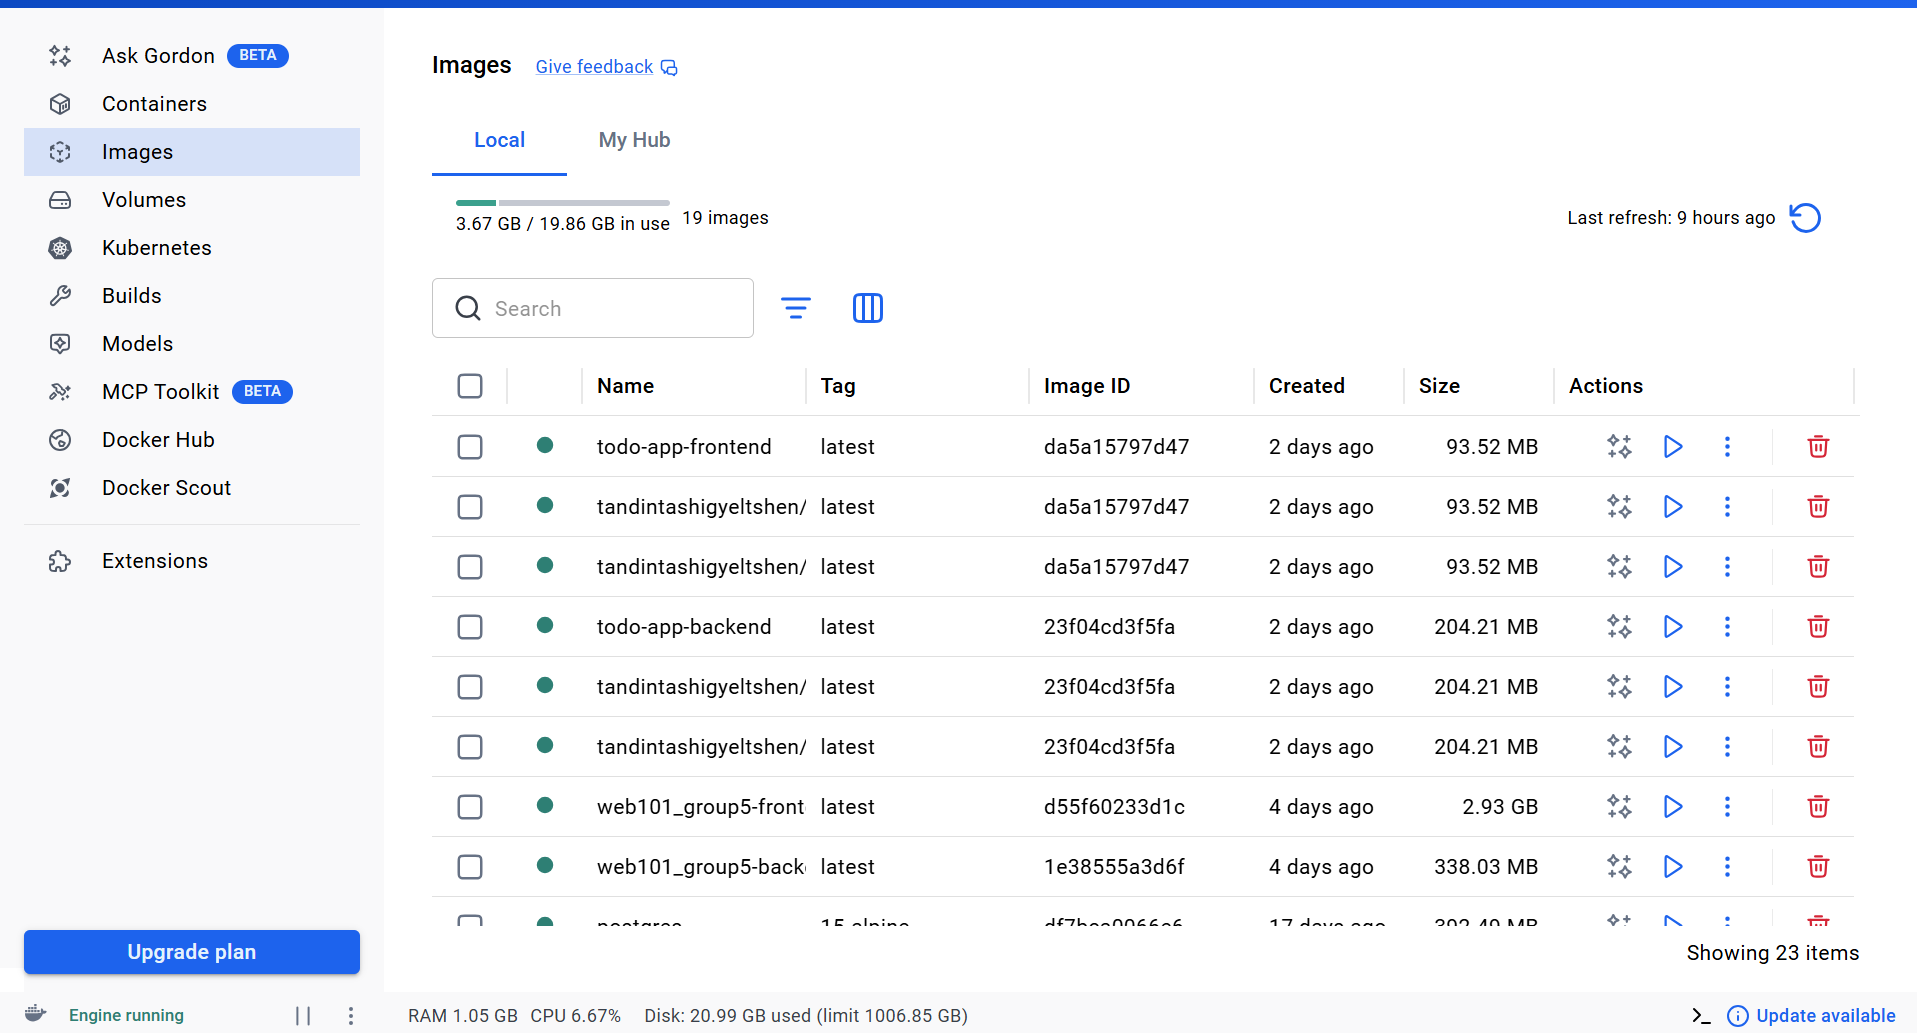
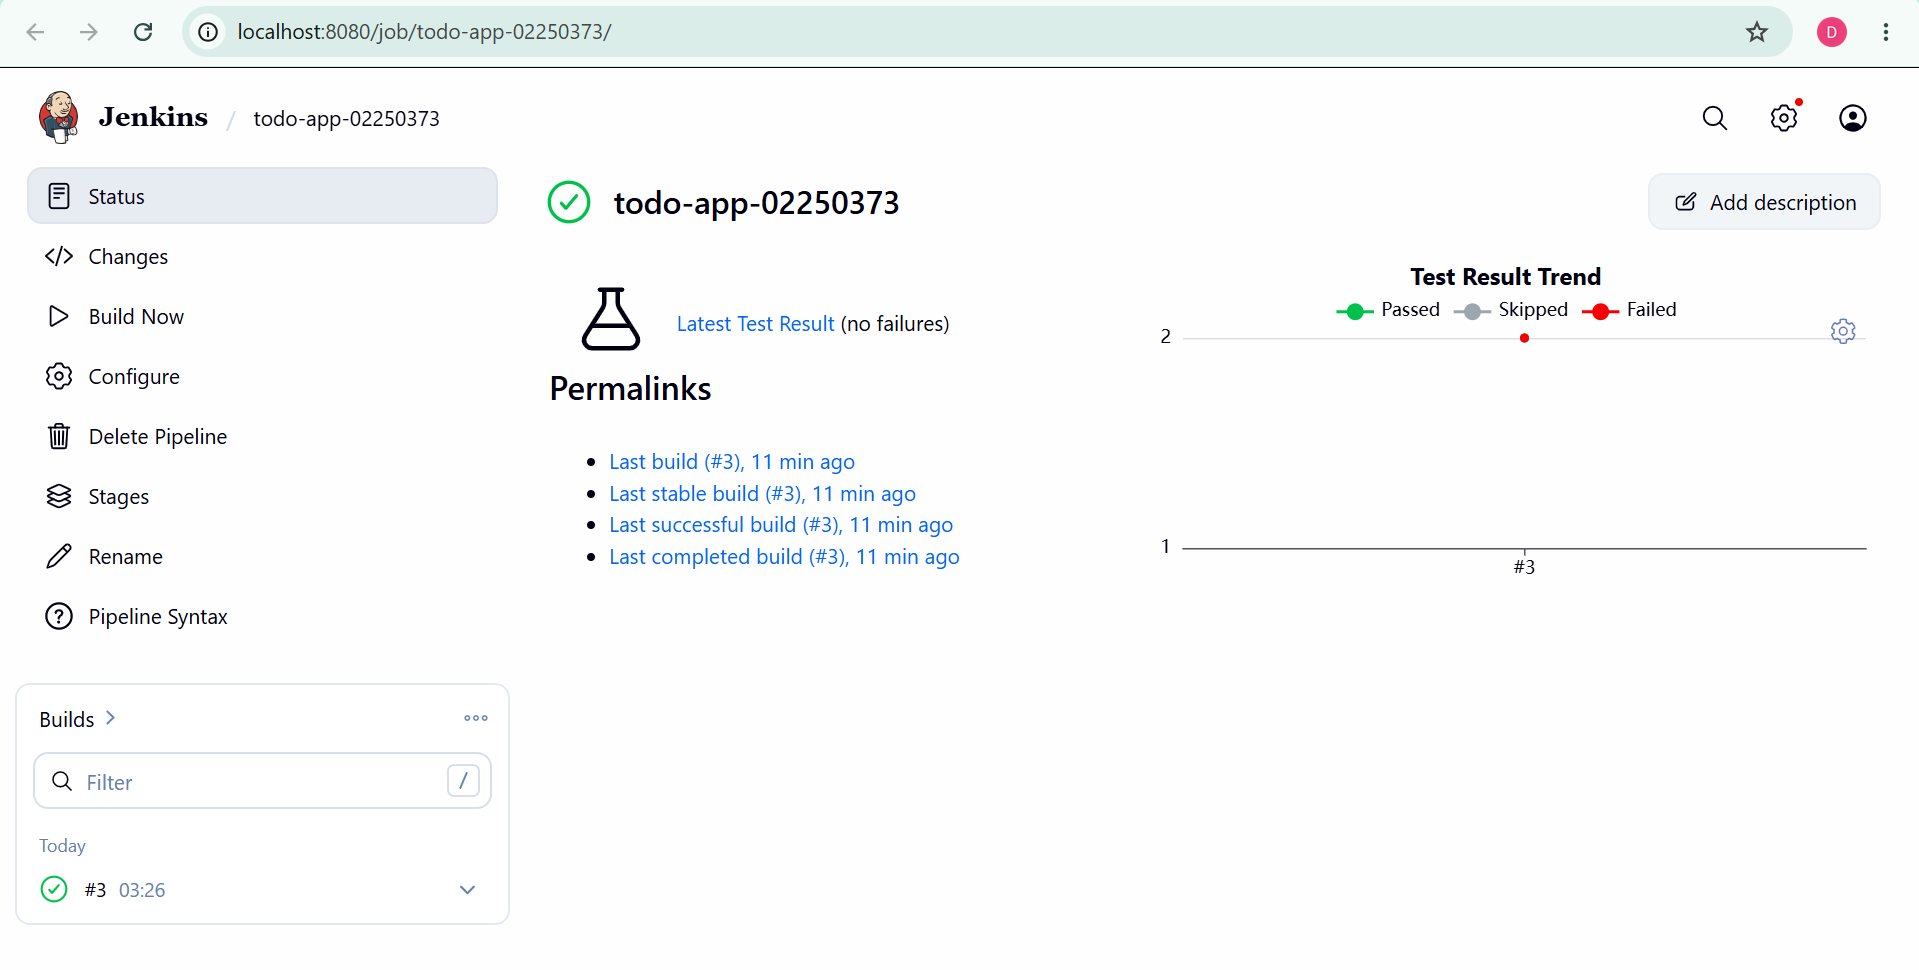
Add README for Assignment 2

diff --git a/README.md b/README.md
@@ -1,239 +1,99 @@
-# TodoApp — DSO101 Assignment 1
+# TodoApp — DSO101 Assignment 2
 
-A full-stack Todo application built with **React**, **Node/Express**, and **PostgreSQL**, deployed via Docker on Render.com.
-
----
-
-## Project Structure
-
-```
-todo-app/
-├── frontend/
-│   ├── src/
-│   │   ├── App.js          # Main React component (CRUD UI)
-│   │   ├── App.css         # Styles
-│   │   └── index.js        # Entry point
-│   ├── public/
-│   │   └── index.html
-│   ├── Dockerfile          # Multi-stage: build → nginx
-│   ├── nginx.conf          # SPA routing config
-│   └── .env.example
-├── backend/
-│   ├── server.js           # Express API (CRUD endpoints)
-│   ├── Dockerfile
-│   └── .env.example
-├── render.yaml             # Render Blueprint (Part B)
-├── docker-compose.yml      # Local dev environment
-└── .gitignore
-```
+CI/CD pipeline using Jenkins to automate build, test, and deployment of the todo app from Assignment 1.
 
 ---
 
-## Step 0 — Run Locally
+## GitHub Repository
+https://github.com/tandintashigyeltshen15/tandintashigyeltshen_02250373_DSO101_A2
 
-### Prerequisites
-- Node.js 18+
-- Docker & Docker Compose
+## Docker Hub Image
+https://hub.docker.com/r/tandintashigyeltshen/todo-backend-02250373
 
-### Option A: Docker Compose (recommended)
+---
 
-```bash
-# Clone the repo
-git clone https://github.com/tandintashigyeltshen15/tandintashigyeltshen_02250373_DSO101_A1.git
-cd studentname_studentnumber_DSO101_A1
+## Tools & Technologies
+- Jenkins (localhost:8080)
+- GitHub
+- Node.js & npm
+- Jest + jest-junit (unit testing)
+- Docker
 
-# Copy env files (edit with your values if needed)
-cp backend/.env.example backend/.env
-cp frontend/.env.example frontend/.env
+---
 
-# Start all services (db, backend, frontend)
-docker compose up --build
+## Pipeline Stages
+1. **Checkout** — Clone repo from GitHub
+2. **Install** — Run `npm install` in backend
+3. **Test** — Run Jest unit tests, publish JUnit results
+4. **Build Docker Image** — Build backend Docker image
+5. **Push to Docker Hub** — Push image to Docker Hub registry
+
+---
+
+## How to Configure the Pipeline
+
+### 1. Install Jenkins
+- Download from jenkins.io
+- Run on localhost:8080
+- Install plugins: NodeJS, Pipeline, GitHub Integration, Docker Pipeline, Credentials
+
+### 2. Configure Node.js
+- Manage Jenkins → Tools → NodeJS
+- Add NodeJS 20.x, name it `NodeJS`
+
+### 3. Add Credentials
+- GitHub PAT → ID: `github-creds`
+- Docker Hub → ID: `docker-hub-creds`
+
+### 4. Create Pipeline Job
+- New Item → Pipeline → `todo-app-02250373`
+- Pipeline from SCM → Git
+- Repo URL: https://github.com/tandintashigyeltshen15/tandintashigyeltshen_02250373_DSO101_A2.git
+- Script Path: `Jenkinsfile`
+
+### 5. Run
+- Click Build Now
+- Pipeline runs all 5 stages automatically
+
+---
+
+## Unit Tests
+Tests are in `backend/server.test.js` using Jest and Supertest.
+
+```javascript
+describe('Todo API', () => {
+  test('GET /health returns ok')
+  test('GET /api/todos returns array')
+})
 ```
 
-- Frontend: http://localhost:3000  
-- Backend API: http://localhost:5000  
-- Health check: http://localhost:5000/health
-
-### Option B: Manual (without Docker)
-
-**Database** — Start a local PostgreSQL instance and create a database called `tododb`.
-
-**Backend:**
+Run locally:
 ```bash
 cd backend
-cp .env.example .env   # Edit DB_* values to match your local Postgres
-npm install
-npm start
-```
-
-**Frontend:**
-```bash
-cd frontend
-cp .env.example .env   # REACT_APP_API_URL=http://localhost:5000
-npm install
-npm start
+npm test
 ```
 
 ---
 
-## Part A — Deploy Pre-built Docker Image to Docker Hub
+## Screenshots
 
-### 1. Build and tag images (use your student ID as tag)
+### Successful Pipeline Execution
+![Pipeline Success](SS1.png)
 
-```bash
-# Backend
-docker build -t YOUR_DOCKERHUB_USERNAME/be-todo:YOUR_STUDENT_ID ./backend
+### Test Results
+![Test Results](SS2.png)
 
-# Frontend
-docker build -t YOUR_DOCKERHUB_USERNAME/fe-todo:YOUR_STUDENT_ID ./frontend
-```
-
-### 2. Push to Docker Hub
-
-```bash
-docker login
-
-docker push YOUR_DOCKERHUB_USERNAME/be-todo:YOUR_STUDENT_ID
-docker push YOUR_DOCKERHUB_USERNAME/fe-todo:YOUR_STUDENT_ID
-```
-
-> ![Dcocker Hub](SS1.png)
-
-### 3. Create PostgreSQL on Render
-
-1. Go to [render.com](https://render.com) → **New → PostgreSQL**
-2. Name it `todo-db`, choose the **Free** plan
-3. Copy the **Internal Database URL** details (host, user, password, db name)
-
-> ![Database](SS2.png)
-
-### 4. Deploy Backend on Render
-
-1. **New → Web Service → Deploy an existing image from a registry**
-2. Image URL: `docker.io/YOUR_DOCKERHUB_USERNAME/be-todo:YOUR_STUDENT_ID`
-3. Add environment variables:
-
-| Key | Value |
-|-----|-------|
-| `DB_HOST` | (from Render PostgreSQL dashboard) |
-| `DB_USER` | (from Render PostgreSQL dashboard) |
-| `DB_PASSWORD` | (from Render PostgreSQL dashboard) |
-| `DB_NAME` | (from Render PostgreSQL dashboard) |
-| `DB_PORT` | `5432` |
-| `DB_SSL` | `true` |
-| `PORT` | `5000` |
-
-4. Click **Deploy**
-
-> ![Backend](SS3.png)
-
-### 5. Deploy Frontend on Render
-
-1. **New → Web Service → Deploy an existing image from a registry**
-2. Image URL: `docker.io/YOUR_DOCKERHUB_USERNAME/fe-todo:YOUR_STUDENT_ID`
-3. Add environment variables:
-
-| Key | Value |
-|-----|-------|
-| `REACT_APP_API_URL` | `https://be-todo.onrender.com` (your backend URL) |
-
-4. Click **Deploy**
-
-> ![Frontend](SS4.png)
+### Docker Hub Image
+![Docker Hub](SS3.png)
 
 ---
 
-## Part B — Automated Build and Deployment from Git
-
-This uses the `render.yaml` Blueprint so every `git push` triggers a new build and deploy automatically.
-
-### 1. Push your repo to GitHub
-
-```bash
-git init
-git add .
-git commit -m "Initial commit — DSO101 A1"
-git remote add origin https://github.com/tandintashigyeltshen15/tandintashigyeltshen_02250373_DSO101_A1.git
-git push -u origin main
-```
-
-> ![GitHub Repo](SS5.png)
-
-### 2. Connect repo to Render via Blueprint
-
-1. Go to Render → **New → Blueprint**
-2. Connect your GitHub account and select your repository
-3. Render detects `render.yaml` automatically
-4. Review the services (be-todo, fe-todo, todo-db) and click **Apply**
-
->  ![Render Blueprint](SS6.png)
-
-### 3. Update the frontend API URL
-
-After the backend deploys, copy its URL (e.g. `https://be-todo.onrender.com`) and update `render.yaml`:
-
-```yaml
-- key: REACT_APP_API_URL
-  value: https://be-todo.onrender.com   # ← replace with actual URL
-```
-
-Then push:
-```bash
-git add render.yaml
-git commit -m "Update backend URL in render.yaml"
-git push
-```
-
-Render will automatically rebuild and redeploy.
-
-### 4. Verify
-
-- Visit the frontend URL — you should see the Todo app
-- Add, edit, complete, and delete tasks
-- Check the backend health: `https://be-todo.onrender.com/health`
-
-> ![Browser](SS7.png)
+## Challenges Faced
+- Jenkins plugins failed to load due to missing Credentials plugin — fixed by manually downloading credentials.hpi
+- Jenkins running on Windows required using `bat` instead of `sh` in Jenkinsfile
+- Pipeline Stage Tags Metadata plugin had network timeout — fixed by manual download
 
 ---
 
-## API Reference
-
-| Method | Endpoint | Description |
-|--------|----------|-------------|
-| `GET` | `/health` | Health check |
-| `GET` | `/api/todos` | Get all todos |
-| `GET` | `/api/todos/:id` | Get single todo |
-| `POST` | `/api/todos` | Create todo |
-| `PUT` | `/api/todos/:id` | Update todo |
-| `DELETE` | `/api/todos/:id` | Delete todo |
-
-**POST/PUT body:**
-```json
-{
-  "title": "Buy groceries",
-  "description": "Milk, eggs, bread",
-  "completed": false
-}
-```
-
----
-
-## Environment Variables
-
-### Backend (`.env`)
-```
-PORT=5000
-DB_HOST=localhost
-DB_USER=postgres
-DB_PASSWORD=yourpassword
-DB_NAME=tododb
-DB_PORT=5432
-DB_SSL=false
-```
-
-### Frontend (`.env`)
-```
-REACT_APP_API_URL=http://localhost:5000
-```
-
-> ⚠ Never commit `.env` files. They are in `.gitignore`.
+## Jenkinsfile
+See [Jenkinsfile](Jenkinsfile) in the repo root.
